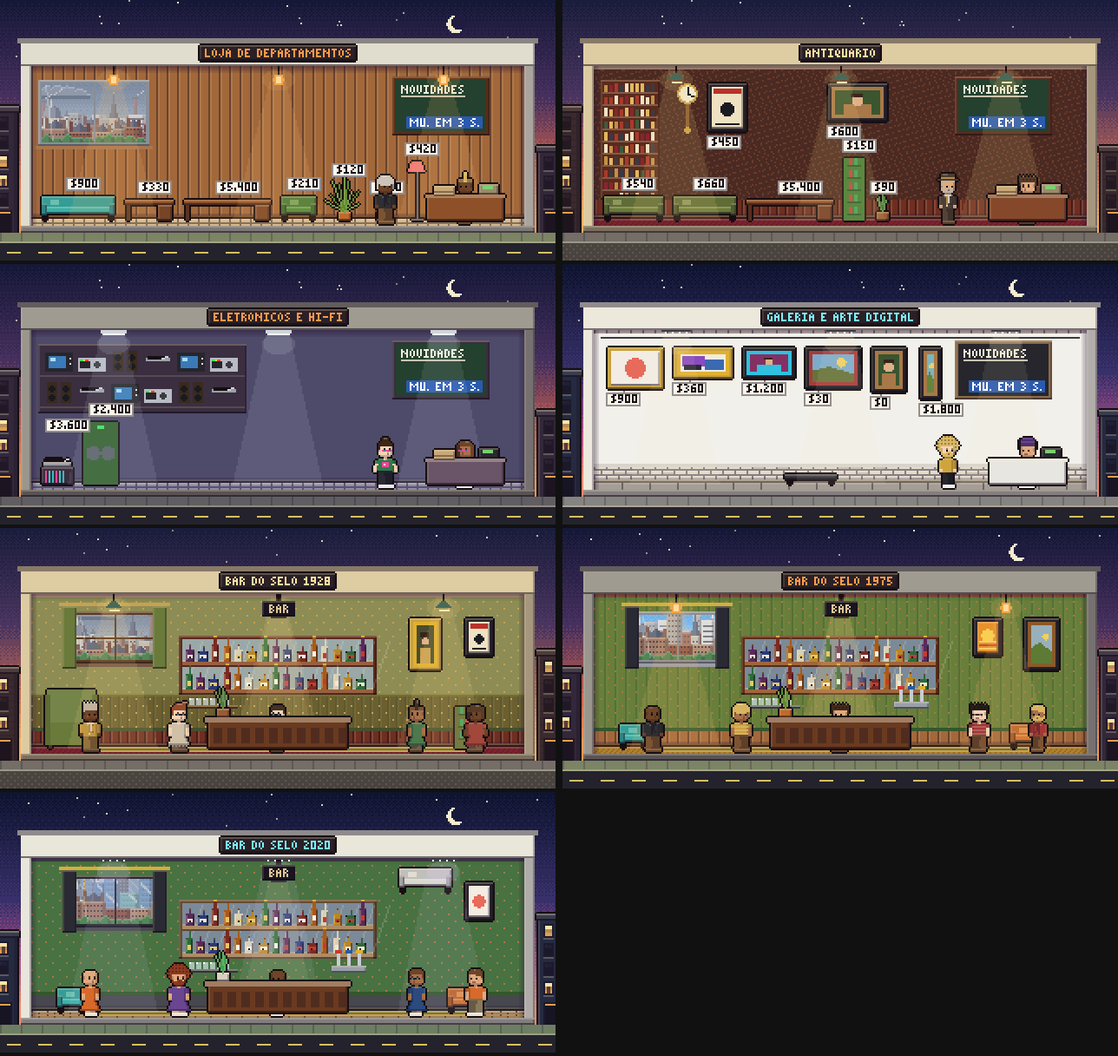
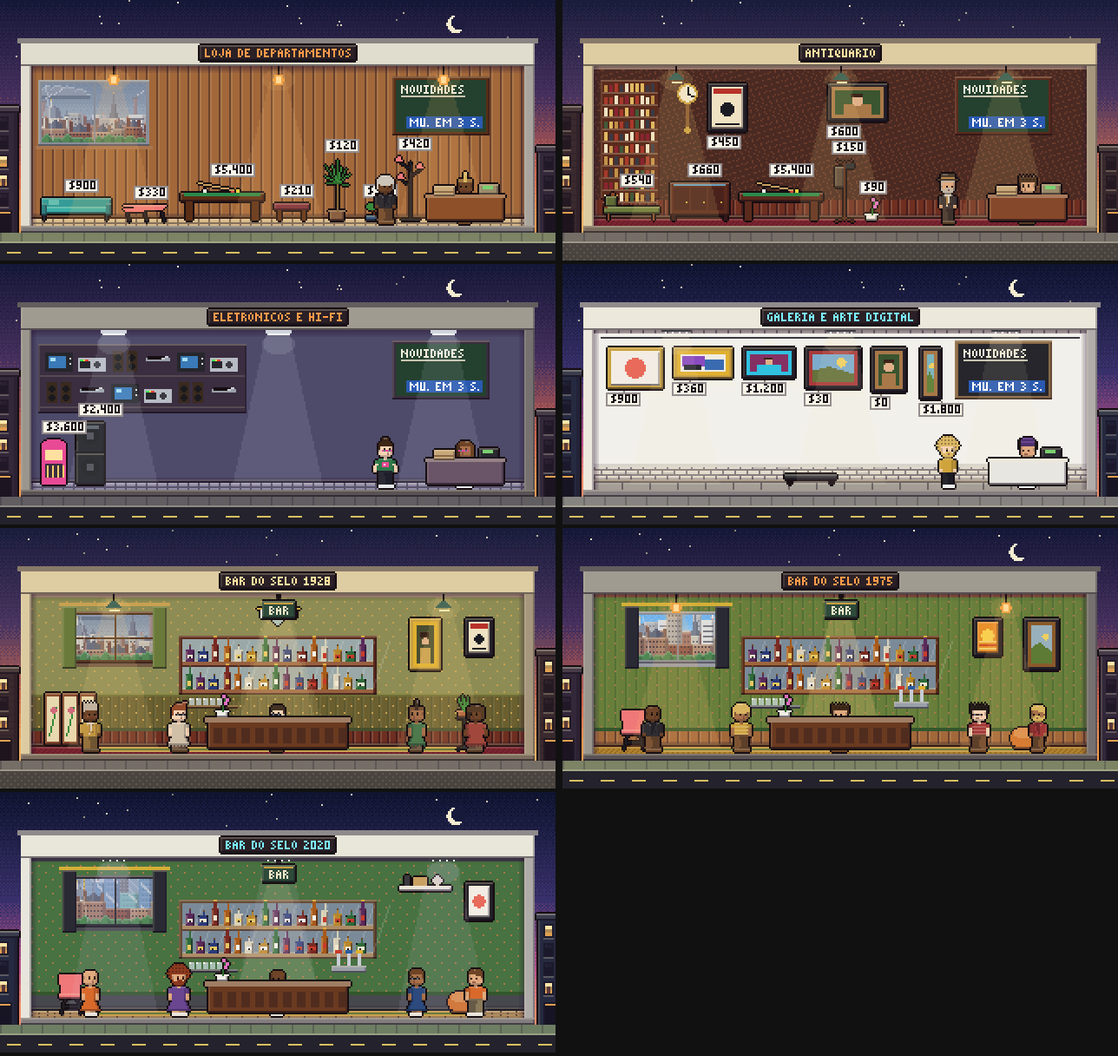
R31 DECO-L: desenho próprio de cada peça do catálogo (eletrônicos, móveis, coleção, luzes, plantas, letreiros)
Os 19 aparelhos de som e imagem, ~45 móveis, 22 peças de coleção, luminárias,
12 luzes de teto, 12 plantas e 12 estilos de letreiro desenhados no estilo da
mobília das cenas (até a arte final da DECO-A). Folha em docs/r31/shots.

Claude-Session: https://claude.ai/code/session_01FdhcX2hJbUoEDgwuGn3MBp

diff --git a/src/ui/r31/decol31art.ts b/src/ui/r31/decol31art.ts
@@ -1,0 +1,201 @@
+// R31 · DECO-L — desenho de CADA peça de decoração do catálogo da DECO-M que o prim27 não tem (móveis, coleção,
+// luminárias, luzes de teto e plantas), no estilo da mobília das cenas: vista lateral, chapado com luz de cima à
+// esquerda (`blk`), cores da época/estilo, contorno INK aplicado no fechamento do corte. Base embaixo à esquerda
+// (x, b = chão/apoio); luz de teto pendurada a partir de `top`. Devolve o tamanho desenhado (ou null = sem desenho).
+// A arte final por id e estilo é da DECO-A (pixel/deco31px); isto cobre o catálogo inteiro até lá.
+
+import type { DecoDef31 } from '../../data/deco31';
+import type { Cut27 } from '../pixel/interior27';
+import { C, INK, lv, withAlpha, type Col } from '../pixel/px';
+import { STY31 } from '../pixel/decol31px';
+import { prim27 } from '../ps/hqpx27';
+import { drawText, textWidth } from '../pixel/font';
+
+type G = Cut27['g'];
+type WH = { w: number; h: number };
+const blk = prim27.blk;
+const GOLD = C('#d8b040'), BRASS = C('#b88a3a'), CHROME = C('#c8ccd4'), STEEL = C('#7a8088'), BLACK = C('#1e1e24'), WHITE = C('#f0eee8'), GLASS = C('#a8d0e0');
+const LEAF = C('#3a8a3a'), LEAF2 = C('#2a6a2a'), POT = C('#b0603a');
+
+/** Sofá/poltrona com estilo (curvo, pés palito, modular, baixo…). */
+function seat(g: G, x: number, b: number, w: number, c: Col, o: { legs?: 'pin' | 'wood' | 'none' | 'chrome'; back?: number; round?: boolean } = {}): WH {
+  const p = g.p, bh = o.back ?? 7;
+  blk(p, x, b - 7 - bh, w, bh, lv(c, 2.6)); // encosto
+  if (o.round) { p.put(x, b - 7 - bh, 0); p.put(x + w - 1, b - 7 - bh, 0); }
+  blk(p, x + 2, b - 8, w - 4, 4, c); // assento
+  blk(p, x, b - 10, 3, 7, lv(c, 2)); blk(p, x + w - 3, b - 10, 3, 7, lv(c, 2)); // braços
+  p.rect(x + 4, b - 12, Math.min(6, w / 4), 3, lv(c, 4)); // almofada
+  const lc = o.legs === 'pin' ? C('#2a2a30') : o.legs === 'chrome' ? CHROME : C('#4e3420');
+  if (o.legs !== 'none') { p.rect(x + 1, b - 3, o.legs === 'pin' ? 1 : 2, 3, lc); p.rect(x + w - 3, b - 3, o.legs === 'pin' ? 1 : 2, 3, lc); }
+  else p.rect(x, b - 3, w, 3, lv(c, 1.4));
+  return { w, h: 7 + bh };
+}
+/** Móvel de guardar (aparador, cômoda) com portas/gavetas e pés. */
+function cabinet(g: G, x: number, b: number, w: number, h: number, c: Col, glass = false, inlay?: Col): WH {
+  const p = g.p;
+  blk(p, x, b - h, w, h - 3, c);
+  const n = Math.max(2, Math.round(w / 12));
+  for (let i = 0; i < n; i++) {
+    const dx = x + 2 + Math.round(i * (w - 4) / n), dw = Math.round((w - 4) / n) - 1;
+    p.rect(dx, b - h + 3, dw, h - 9, glass ? GLASS : lv(c, 2.2));
+    if (glass) p.line(dx + 1, b - 7, dx + dw - 2, b - h + 4, withAlpha(WHITE, 90));
+    p.put(dx + dw - 2, b - h + (h >> 1), GOLD);
+  }
+  if (inlay) p.hline(x + 2, x + w - 3, b - h + 1, inlay);
+  p.rect(x + 1, b - 3, 2, 3, lv(c, 1)); p.rect(x + w - 3, b - 3, 2, 3, lv(c, 1));
+  return { w, h };
+}
+function leaves(g: G, cx: number, y: number, n: number, len: number, spread = 0.32, c1 = LEAF, c2 = LEAF2): void {
+  for (let i = 0; i < n; i++) {
+    const a = -Math.PI / 2 + (i - (n - 1) / 2) * spread;
+    const l = len * (0.65 + ((i * 7) % 5) / 12);
+    g.p.line(cx, y, cx + Math.cos(a) * l * 0.6, y + Math.sin(a) * l, i % 2 ? c1 : c2);
+  }
+}
+const pot = (g: G, x: number, b: number, w: number, h: number, c: Col = POT): void => { blk(g.p, x, b - h, w, h, c); g.p.hline(x - 1, x + w, b - h, lv(c, 4)); };
+
+/** Desenha a peça pelo id; null = não tem desenho próprio aqui. */
+export function art31(g: G, d: DecoDef31, x: number, b: number): WH | null {
+  const p = g.p, a = C(STY31[d.style][0]), wd = g.pal.wood, wk = g.pal.woodDark;
+  switch (d.id) {
+    // ---------------------------------------------------------------- móveis
+    case 'd_chaise_nouveau': { blk(p, x, b - 8, 32, 4, a); p.line(x, b - 8, x + 4, b - 16, wd); p.line(x + 1, b - 8, x + 5, b - 16, wd); blk(p, x + 1, b - 14, 6, 6, lv(a, 2.6)); p.rect(x + 2, b - 4, 1, 4, wd); p.rect(x + 28, b - 4, 1, 4, wd); return { w: 32, h: 16 }; }
+    case 'd_armchair_nouveau': return seat(g, x, b, 18, C('#7a2a3a'), { legs: 'wood', back: 12, round: true });
+    case 'd_screen_nouveau': { for (let i = 0; i < 3; i++) { const px = x + i * 10; blk(p, px, b - 32, 9, 30, wd); p.rect(px + 1, b - 30, 7, 26, C('#e8d8b0')); p.line(px + 2, b - 8, px + 6, b - 24, LEAF); p.disc(px + 5, b - 22, 1.5, C('#d06a7a')); } return { w: 29, h: 32 }; }
+    case 'd_sideboard_nouveau': return cabinet(g, x, b, 34, 22, wk, false, C('#6aa0c0'));
+    case 'd_bookcase_nouveau': { blk(p, x, b - 38, 24, 38, C('#8a5a30')); prim27.shelf(g, x + 2, b - 36, 20, 32, 'books'); p.line(x + 3, b - 6, x + 20, b - 34, withAlpha(WHITE, 60)); return { w: 24, h: 38 }; }
+    case 'd_plantstand_nouveau': { p.vline(x + 5, b - 18, b - 1, BLACK); p.line(x + 5, b - 2, x + 1, b, BLACK); p.line(x + 5, b - 2, x + 9, b, BLACK); p.hline(x + 1, x + 9, b - 18, BLACK); pot(g, x + 2, b - 18, 7, 4); leaves(g, x + 5, b - 22, 6, 9); return { w: 11, h: 30 }; }
+    case 'd_sofa_deco': return seat(g, x, b, 42, C('#3a2a24'), { legs: 'chrome', back: 8, round: true });
+    case 'd_club_chair': return seat(g, x, b, 20, C('#6a3a20'), { legs: 'none', back: 9, round: true });
+    case 'd_bar_cart_deco': { p.hline(x, x + 18, b - 16, CHROME); p.hline(x, x + 18, b - 8, CHROME); p.vline(x + 1, b - 16, b - 3, CHROME); p.vline(x + 17, b - 16, b - 3, CHROME); p.disc(x + 2, b - 2, 1.5, BLACK); p.disc(x + 16, b - 2, 1.5, BLACK); for (let i = 0; i < 4; i++) p.rect(x + 3 + i * 4, b - 21, 2, 5, [C('#7a2a22'), C('#b8862a'), C('#2e6a3a'), GLASS][i]); p.rect(x + 5, b - 11, 3, 3, GLASS); p.rect(x + 11, b - 11, 3, 3, GLASS); return { w: 19, h: 21 }; }
+    case 'd_cabinet_deco': return cabinet(g, x, b, 36, 22, BLACK, false, GOLD);
+    case 'd_vanity_deco': { blk(p, x, b - 12, 24, 9, wd); p.rect(x + 2, b - 3, 2, 3, wk); p.rect(x + 20, b - 3, 2, 3, wk); p.disc(x + 12, b - 22, 8, GOLD); p.disc(x + 12, b - 22, 6.5, GLASS); p.line(x + 9, b - 18, x + 14, b - 26, withAlpha(WHITE, 120)); p.rect(x + 5, b - 14, 3, 2, C('#d06a7a')); return { w: 24, h: 30 }; }
+    case 'd_desk_deco': { prim27.desk(g, x, b, 38); blk(p, x + 26, b - 15, 10, 3, BLACK); p.rect(x + 4, b - 16, 6, 3, GOLD); return { w: 38, h: 16 }; }
+    case 'd_sofa_fifties': return seat(g, x, b, 40, C('#3ab0a8'), { legs: 'pin', back: 6 });
+    case 'd_eames_chair': { seat(g, x, b, 18, C('#2a2026'), { legs: 'chrome', back: 10, round: true }); blk(p, x + 20, b - 6, 8, 3, C('#2a2026')); p.rect(x + 23, b - 3, 1, 3, CHROME); return { w: 28, h: 17 }; }
+    case 'd_diner_booth': { blk(p, x, b - 20, 4, 20, C('#c83030')); blk(p, x + 32, b - 20, 4, 20, C('#c83030')); blk(p, x + 4, b - 8, 28, 3, CHROME); p.rect(x + 17, b - 5, 2, 5, CHROME); p.rect(x + 8, b - 11, 4, 3, C('#f0d060')); p.rect(x + 22, b - 12, 3, 4, C('#c83030')); return { w: 36, h: 20 }; }
+    case 'd_boomerang_table': { p.poly([[x, b - 7], [x + 27, b - 9], [x + 24, b - 6], [x + 3, b - 5]], C('#f07878')); p.hline(x + 1, x + 25, b - 9, lv(C('#f07878'), 4)); for (const lx of [x + 3, x + 13, x + 23]) p.line(lx, b - 5, lx + 1, b, BLACK); return { w: 28, h: 9 }; }
+    case 'd_credenza_fifties': return cabinet(g, x, b, 36, 18, C('#a0602a'));
+    case 'd_shell_chair': { p.poly([[x + 1, b - 22], [x + 14, b - 22], [x + 13, b - 10], [x + 2, b - 10]], C('#f07878')); blk(p, x + 1, b - 11, 14, 3, C('#f07878')); p.line(x + 4, b - 8, x + 2, b, BLACK); p.line(x + 11, b - 8, x + 13, b, BLACK); p.line(x + 3, b - 4, x + 12, b - 4, BLACK); return { w: 16, h: 22 }; }
+    case 'd_bean_bag': { p.ellipse(x + 10, b - 6, 10, 6, C('#d0702a')); p.ellipse(x + 8, b - 9, 6, 3, lv(C('#d0702a'), 4)); p.hline(x + 2, x + 18, b - 1, lv(C('#d0702a'), 1.2)); return { w: 20, h: 12 }; }
+    case 'd_conversation_pit': { blk(p, x, b - 10, 52, 10, C('#b8862a')); blk(p, x + 4, b - 6, 44, 6, lv(C('#d0702a'), 2.6)); for (let i = 0; i < 4; i++) p.rect(x + 7 + i * 11, b - 9, 7, 3, C('#e0a040')); return { w: 52, h: 10 }; }
+    case 'd_egg_chair': { p.ellipse(x + 11, b - 18, 10, 12, C('#c83030')); p.ellipse(x + 13, b - 17, 6, 8, lv(C('#c83030'), 1.6)); p.rect(x + 10, b - 6, 2, 5, CHROME); p.hline(x + 5, x + 17, b - 1, CHROME); return { w: 22, h: 30 }; }
+    case 'd_waterbed': { blk(p, x, b - 8, 44, 8, wd); p.rect(x + 2, b - 11, 40, 4, C('#3a7ab8')); for (let i = 0; i < 40; i += 6) p.hline(x + 3 + i, x + 5 + i, b - 10, C('#7ab0e0')); p.rect(x + 3, b - 13, 8, 2, WHITE); return { w: 44, h: 13 }; }
+    case 'd_macrame_chair': { p.vline(x + 10, b - 34, b - 22, wk); p.ellipse(x + 10, b - 13, 9, 9, C('#e8d8b0')); for (let i = -6; i <= 6; i += 3) p.line(x + 10, b - 22, x + 10 + i, b - 5, C('#c8a878')); blk(p, x + 4, b - 9, 12, 3, C('#d0702a')); return { w: 20, h: 34 }; }
+    case 'd_rattan_set': { seat(g, x, b, 22, C('#c8a060'), { legs: 'wood', back: 8, round: true }); for (let i = 0; i < 20; i += 3) p.vline(x + 1 + i, b - 15, b - 9, C('#a07840')); p.ellipse(x + 32, b - 8, 7, 2, GLASS); p.rect(x + 31, b - 6, 2, 6, C('#a07840')); return { w: 40, h: 15 }; }
+    case 'd_sofa_eighties': { for (let i = 0; i < 3; i++) seat(g, x + i * 16, b, 16, C('#7a7a84'), { legs: 'none', back: 6 }); return { w: 48, h: 13 }; }
+    case 'd_glass_desk': { p.rect(x, b - 15, 36, 2, withAlpha(GLASS, 200)); p.hline(x, x + 35, b - 15, WHITE); p.rect(x + 2, b - 13, 2, 13, CHROME); p.rect(x + 32, b - 13, 2, 13, CHROME); p.rect(x + 22, b - 22, 9, 7, BLACK); p.rect(x + 23, b - 21, 7, 5, C('#3a7ab8')); return { w: 36, h: 22 }; }
+    case 'd_memphis_shelf': { blk(p, x, b - 36, 28, 4, C('#e040a0')); blk(p, x + 4, b - 32, 4, 32, BLACK); blk(p, x + 20, b - 32, 4, 32, C('#30c0e0')); blk(p, x + 8, b - 20, 12, 3, C('#f0d040')); for (let i = 0; i < 4; i++) p.rect(x + 9 + i * 3, b - 26, 2, 6, [C('#e04040'), WHITE, C('#30c0e0'), BLACK][i]); p.disc(x + 14, b - 6, 3, C('#f0d040')); return { w: 28, h: 36 }; }
+    case 'd_arcade_cab': { blk(p, x, b - 36, 18, 36, C('#2a2436')); p.rect(x + 2, b - 34, 14, 4, C('#ff48c8')); p.rect(x + 3, b - 28, 12, 9, C('#40e0ff')); p.rect(x + 4, b - 27, 4, 3, WHITE); blk(p, x - 1, b - 18, 20, 3, C('#3a2a5a')); p.put(x + 5, b - 20, C('#ff4040')); p.vline(x + 5, b - 19, b - 18, BLACK); p.disc(x + 11, b - 17, 1, C('#f0e040')); p.rect(x + 7, b - 10, 4, 2, C('#f0d040')); return { w: 18, h: 36 }; }
+    case 'd_futon': { blk(p, x, b - 5, 40, 5, C('#c8a060')); blk(p, x + 1, b - 9, 38, 4, C('#3a4a6a')); blk(p, x + 1, b - 14, 38, 5, lv(C('#3a4a6a'), 2.6)); return { w: 40, h: 14 }; }
+    case 'd_leather_sofa90': return seat(g, x, b, 44, BLACK, { legs: 'chrome', back: 8 });
+    case 'd_cd_tower': { p.vline(x + 4, b - 34, b - 1, STEEL); p.hline(x + 1, x + 8, b - 1, STEEL); for (let y = b - 33; y < b - 2; y += 2) p.hline(x + 1, x + 7, y, [C('#e04040'), C('#3a7ab8'), WHITE, C('#f0d040'), BLACK][(y >> 1) % 5]); return { w: 9, h: 34 }; }
+    case 'd_pool_table': { blk(p, x, b - 16, 48, 5, wk); p.rect(x + 2, b - 16, 44, 2, C('#2a8a4a')); p.disc(x + 14, b - 17, 1.2, WHITE); p.disc(x + 30, b - 17, 1.2, C('#e04040')); p.disc(x + 33, b - 17, 1.2, C('#f0d040')); p.rect(x + 3, b - 11, 4, 11, wk); p.rect(x + 41, b - 11, 4, 11, wk); p.line(x + 10, b - 22, x + 30, b - 18, C('#c8a060')); return { w: 48, h: 22 }; }
+    case 'd_lowsofa_min': return seat(g, x, b, 44, C('#d8d0c0'), { legs: 'wood', back: 4 });
+    case 'd_floating_shelf': { blk(p, x, b - 4, 30, 3, C('#e8e4dc')); p.rect(x + 3, b - 10, 3, 6, C('#3a3a3e')); p.rect(x + 8, b - 9, 8, 5, C('#c8a060')); p.disc(x + 22, b - 7, 2.5, C('#d8d0c0')); return { w: 30, h: 10 }; }
+    case 'd_standing_desk': { blk(p, x, b - 22, 34, 3, C('#e8e4dc')); p.rect(x + 4, b - 19, 2, 19, STEEL); p.rect(x + 28, b - 19, 2, 19, STEEL); p.hline(x + 1, x + 9, b - 1, STEEL); p.hline(x + 25, x + 33, b - 1, STEEL); p.rect(x + 12, b - 30, 12, 8, BLACK); p.rect(x + 13, b - 29, 10, 6, C('#3a7ab8')); return { w: 34, h: 30 }; }
+    case 'd_bench_min': { blk(p, x, b - 9, 36, 3, C('#c8a060')); p.rect(x + 3, b - 6, 3, 6, C('#a07840')); p.rect(x + 30, b - 6, 3, 6, C('#a07840')); return { w: 36, h: 9 }; }
+    case 'd_smart_sofa': { seat(g, x, b, 46, C('#5a6a7a'), { legs: 'none', back: 6 }); p.hline(x + 3, x + 42, b - 3, C('#40c0ff')); p.rect(x + 1, b - 12, 2, 2, C('#40c0ff')); return { w: 46, h: 13 }; }
+    case 'd_massage_chair': { blk(p, x + 2, b - 28, 12, 18, C('#3a3a42')); blk(p, x, b - 12, 22, 6, C('#3a3a42')); blk(p, x + 16, b - 10, 6, 10, lv(C('#3a3a42'), 2)); p.rect(x + 4, b - 26, 8, 2, C('#40c0ff')); p.rect(x + 1, b - 6, 14, 6, lv(C('#3a3a42'), 1.4)); return { w: 22, h: 28 }; }
+    case 'd_pod_bed': { p.ellipse(x + 23, b - 8, 23, 8, WHITE); p.ellipse(x + 23, b - 9, 20, 4, C('#d0e8f0')); p.rect(x + 4, b - 11, 8, 3, C('#f8f8f8')); p.hline(x + 6, x + 40, b - 2, C('#40c0ff')); return { w: 46, h: 16 }; }
+    case 'd_bar_counter': { blk(p, x, b - 24, 56, 4, wk); blk(p, x + 2, b - 20, 52, 20, wd); for (let i = 0; i < 52; i += 9) p.rect(x + 4 + i, b - 17, 6, 13, lv(wd, 2)); p.hline(x + 2, x + 53, b - 2, BRASS); return { w: 56, h: 24 }; }
+    case 'd_merch_rack': { p.hline(x, x + 28, b - 28, CHROME); p.vline(x + 1, b - 28, b - 1, CHROME); p.vline(x + 27, b - 28, b - 1, CHROME); for (let i = 0; i < 6; i++) { const tx = x + 3 + i * 4; p.rect(tx, b - 26, 4, 10, [C('#1e1e24'), C('#c83030'), WHITE, C('#3a6ab0'), C('#f0d040'), C('#1e1e24')][i]); p.put(tx + 1, b - 22, i % 2 ? BLACK : WHITE); } return { w: 28, h: 28 }; }
+    case 'd_record_bin': { blk(p, x, b - 12, 28, 12, C('#8a6040')); for (let i = 0; i < 9; i++) p.rect(x + 2 + i * 3, b - 16 + (i % 3), 2, 5, [C('#e04040'), C('#f0d040'), C('#3a7ab8'), WHITE, C('#40a060')][i % 5]); p.rect(x + 9, b - 8, 10, 4, C('#f0e8d0')); return { w: 28, h: 16 }; }
+    case 'd_piano_bench': { blk(p, x, b - 10, 20, 4, C('#7a2a3a')); p.rect(x + 2, b - 6, 2, 6, wk); p.rect(x + 16, b - 6, 2, 6, wk); return { w: 20, h: 10 }; }
+    case 'd_coat_stand': { p.vline(x + 6, b - 34, b - 1, wk); p.line(x + 6, b - 2, x + 1, b, wk); p.line(x + 6, b - 2, x + 11, b, wk); p.line(x + 6, b - 32, x + 2, b - 35, wk); p.line(x + 6, b - 32, x + 10, b - 35, wk); blk(p, x + 1, b - 31, 5, 12, C('#5a4a3a')); p.rect(x + 7, b - 33, 5, 3, C('#2a2a30')); return { w: 12, h: 35 }; }
+    // ---------------------------------------------------------------- coleção e enfeites
+    case 'c_bust': { blk(p, x + 2, b - 4, 8, 4, WHITE); p.rect(x + 3, b - 8, 6, 4, C('#e0dcd0')); p.disc(x + 6, b - 11, 3, C('#e8e4d8')); p.rect(x + 3, b - 14, 6, 2, C('#c8c4b8')); return { w: 12, h: 14 }; }
+    case 'c_globe': { p.vline(x + 6, b - 4, b - 1, BRASS); p.hline(x + 3, x + 9, b - 1, wk); p.disc(x + 6, b - 9, 5, C('#3a7ab8')); p.rect(x + 3, b - 11, 3, 2, LEAF); p.rect(x + 7, b - 8, 3, 3, LEAF); p.ring(x + 6, b - 9, 5.5, BRASS); return { w: 12, h: 14 }; }
+    case 'c_grandfather_clock': { blk(p, x, b - 40, 14, 40, wk); p.disc(x + 7, b - 33, 5, C('#f0e8d0')); p.line(x + 7, b - 33, x + 7, b - 36, INK); p.line(x + 7, b - 33, x + 9, b - 32, INK); p.rect(x + 3, b - 26, 8, 20, lv(wk, 1.4)); p.vline(x + 7, b - 26, b - 12, BRASS); p.disc(x + 7, b - 11, 2, GOLD); p.rect(x - 1, b - 41, 16, 2, lv(wk, 3)); return { w: 14, h: 41 }; }
+    case 'c_metronome': { p.poly([[x, b], [x + 6, b], [x + 4, b - 10], [x + 2, b - 10]], wd); p.line(x + 3, b - 2, x + 5, b - 10, CHROME); return { w: 6, h: 10 }; }
+    case 'c_deco_statue': { blk(p, x + 1, b - 3, 7, 3, BLACK); p.line(x + 4, b - 3, x + 4, b - 10, BRASS); p.line(x + 4, b - 10, x + 1, b - 14, BRASS); p.line(x + 4, b - 10, x + 7, b - 15, BRASS); p.disc(x + 4, b - 12, 1.2, C('#f0e8d8')); p.line(x + 4, b - 6, x + 6, b - 3, BRASS); return { w: 8, h: 15 }; }
+    case 'c_cocktail_set': { blk(p, x, b - 2, 14, 2, CHROME); p.rect(x + 2, b - 10, 4, 8, CHROME); p.rect(x + 3, b - 12, 2, 2, CHROME); p.poly([[x + 8, b - 8], [x + 13, b - 8], [x + 11, b - 5], [x + 10, b - 5]], GLASS); p.vline(x + 10, b - 5, b - 3, GLASS); p.put(x + 10, b - 7, C('#d03040')); return { w: 14, h: 12 }; }
+    case 'c_aquarium': { blk(p, x, b - 5, 26, 5, wk); p.rect(x + 1, b - 18, 24, 13, withAlpha(C('#4ab0d0'), 210)); p.hline(x + 1, x + 24, b - 18, CHROME); p.rect(x + 1, b - 7, 24, 2, C('#e0c890')); p.line(x + 4, b - 7, x + 5, b - 14, LEAF); p.line(x + 20, b - 7, x + 19, b - 13, LEAF); p.rect(x + 9, b - 13, 3, 2, C('#f08030')); p.put(x + 12, b - 12, C('#f08030')); p.rect(x + 15, b - 10, 2, 1, C('#f0d040')); p.put(x + 8, b - 16, WHITE); return { w: 26, h: 18 }; }
+    case 'c_jukebox_mini': { p.rect(x, b - 9, 6, 9, C('#c83030')); p.ellipse(x + 3, b - 9, 3, 2, C('#c83030')); p.rect(x + 1, b - 7, 4, 3, C('#ffe0a0')); return { w: 6, h: 11 }; }
+    case 'c_disco_ball': { p.vline(x + 6, b - 18, b - 13, STEEL); p.disc(x + 6, b - 7, 6, CHROME); for (let yy = -5; yy <= 5; yy += 2) for (let xx = -5; xx <= 5; xx += 2) if (xx * xx + yy * yy < 26) p.put(x + 6 + xx, b - 7 + yy, (xx + yy) % 4 ? C('#9aa0aa') : WHITE); return { w: 12, h: 18 }; }
+    case 'c_rubik': { const cs = [C('#e04040'), C('#40a060'), C('#3a7ab8'), C('#f0d040'), C('#f08030'), WHITE]; for (let i = 0; i < 9; i++) p.rect(x + (i % 3) * 2, b - 6 + Math.floor(i / 3) * 2, 2, 2, cs[(i * 2) % 6]); return { w: 6, h: 6 }; }
+    case 'c_cassette_wall': { blk(p, x, b - 20, 30, 20, BLACK); for (let r = 0; r < 4; r++) for (let i = 0; i < 4; i++) { const cx = x + 2 + i * 7, cy = b - 18 + r * 5; p.rect(cx, cy, 6, 4, [C('#e04040'), C('#f0d040'), C('#3a7ab8'), WHITE][(i + r) % 4]); p.rect(cx + 1, cy + 1, 4, 1, BLACK); } return { w: 30, h: 20 }; }
+    case 'c_gameconsole': { blk(p, x, b - 4, 12, 4, C('#2a2a30')); p.rect(x + 1, b - 3, 3, 1, C('#40e060')); p.rect(x + 3, b - 7, 6, 3, C('#3a3a42')); p.put(x + 7, b - 6, C('#e04040')); return { w: 12, h: 7 }; }
+    case 'c_action_figures': { blk(p, x, b - 2, 28, 2, C('#e8e4dc')); for (let i = 0; i < 6; i++) { const fx = x + 2 + i * 4, c = [C('#e04040'), C('#3a7ab8'), C('#40a060'), C('#f0d040'), C('#8a4ac0'), C('#f08030')][i]; p.rect(fx, b - 7, 2, 5, c); p.put(fx, b - 8, C('#e0b088')); p.put(fx + 1, b - 8, C('#e0b088')); } return { w: 28, h: 8 }; }
+    case 'c_trophy_case': { blk(p, x, b - 38, 26, 38, wk); p.rect(x + 2, b - 36, 22, 32, withAlpha(GLASS, 120)); for (let r = 0; r < 3; r++) { p.hline(x + 2, x + 23, b - 26 + r * 10, lv(wk, 3)); for (let i = 0; i < 3; i++) { const tx = x + 4 + i * 7, ty = b - 26 + r * 10; p.rect(tx + 1, ty - 2, 2, 2, GOLD); p.rect(tx, ty - 6, 4, 4, GOLD); p.put(tx - 1, ty - 5, GOLD); p.put(tx + 4, ty - 5, GOLD); } } return { w: 26, h: 38 }; }
+    case 'c_drumhead': { p.disc(x + 9, b - 9, 9, WHITE); p.ring(x + 9, b - 9, 9, CHROME); p.line(x + 4, b - 10, x + 13, b - 7, C('#2a2a7a')); p.line(x + 5, b - 13, x + 11, b - 12, C('#c83030')); return { w: 18, h: 18 }; }
+    case 'c_setlist_frame': { blk(p, x, b - 16, 12, 16, BLACK); p.rect(x + 2, b - 14, 8, 12, WHITE); for (let i = 0; i < 5; i++) p.hline(x + 3, x + 6 + (i % 3), b - 12 + i * 2, INK); return { w: 12, h: 16 }; }
+    case 'c_ceramic_min': { p.ellipse(x + 4, b - 6, 4, 6, C('#d8d4cc')); p.rect(x + 3, b - 14, 3, 3, C('#d8d4cc')); p.vline(x + 2, b - 10, b - 3, WHITE); return { w: 8, h: 14 }; }
+    case 'c_robot_vac': { p.ellipse(x + 5, b - 2, 5, 2, C('#2a2a30')); p.put(x + 5, b - 3, C('#40c0ff')); return { w: 10, h: 4 }; }
+    case 'c_drone_cam': { blk(p, x, b - 2, 10, 2, C('#e8e4dc')); p.rect(x + 3, b - 4, 4, 2, C('#3a3a42')); p.hline(x, x + 9, b - 5, STEEL); p.put(x + 5, b - 3, C('#40c0ff')); return { w: 10, h: 5 }; }
+    case 'c_fireplace': { blk(p, x, b - 32, 34, 32, C('#d8ccb8')); blk(p, x - 2, b - 32, 38, 3, lv(C('#d8ccb8'), 2.4)); p.rect(x + 7, b - 22, 20, 22, BLACK); p.poly([[x + 10, b - 2], [x + 14, b - 12], [x + 17, b - 6], [x + 20, b - 15], [x + 24, b - 2]], C('#f08030')); p.poly([[x + 13, b - 2], [x + 17, b - 9], [x + 21, b - 2]], C('#f8d050')); p.rect(x + 9, b - 3, 16, 2, C('#4e3420')); return { w: 34, h: 32 }; }
+    case 'c_piano_grand': { blk(p, x, b - 20, 44, 6, BLACK); p.poly([[x + 6, b - 20], [x + 38, b - 30], [x + 40, b - 20]], BLACK); p.rect(x + 2, b - 16, 12, 2, WHITE); for (let i = 0; i < 6; i++) p.put(x + 3 + i * 2, b - 16, INK); for (const lx of [x + 3, x + 22, x + 40]) p.rect(lx, b - 14, 2, 14, BLACK); p.line(x + 8, b - 21, x + 36, b - 29, lv(BLACK, 4)); return { w: 44, h: 30 }; }
+    case 'c_candles': { p.hline(x + 1, x + 9, b - 1, CHROME); p.vline(x + 5, b - 9, b - 1, CHROME); p.line(x + 5, b - 7, x + 1, b - 9, CHROME); p.line(x + 5, b - 7, x + 9, b - 9, CHROME); for (const cx of [x + 1, x + 5, x + 9]) { p.rect(cx, b - (cx === x + 5 ? 13 : 12), 1, 3, WHITE); p.put(cx, b - (cx === x + 5 ? 14 : 13), C('#f8c040')); } return { w: 10, h: 14 }; }
+    // ---------------------------------------------------------------- luminárias
+    case 'l_tiffany': { p.vline(x + 6, b - 8, b - 1, BRASS); p.hline(x + 3, x + 9, b - 1, BRASS); p.poly([[x, b - 8], [x + 12, b - 8], [x + 9, b - 15], [x + 3, b - 15]], C('#3a8a5a')); p.rect(x + 3, b - 12, 2, 2, C('#d04040')); p.rect(x + 7, b - 11, 2, 2, C('#f0c040')); return { w: 12, h: 15 }; }
+    case 'l_gas_sconce': { p.rect(x + 2, b - 4, 4, 4, BRASS); p.line(x + 4, b - 4, x + 4, b - 8, BRASS); p.poly([[x + 1, b - 8], [x + 7, b - 8], [x + 6, b - 12], [x + 2, b - 12]], withAlpha(C('#fff0c0'), 210)); return { w: 8, h: 12 }; }
+    case 'l_deco_floor': { p.vline(x + 6, b - 30, b - 1, BLACK); p.hline(x + 2, x + 10, b - 1, BLACK); for (let i = 0; i < 3; i++) p.rect(x + 2 + i, b - 36 + i * 2, 8 - i * 2, 2, i % 2 ? GOLD : C('#f0e8d0')); return { w: 12, h: 36 }; }
+    case 'l_banker': { p.vline(x + 6, b - 6, b - 1, BRASS); p.hline(x + 2, x + 10, b - 1, BRASS); p.ellipse(x + 6, b - 8, 6, 2, C('#2a7a4a')); p.hline(x + 1, x + 11, b - 7, C('#fff0b0')); return { w: 12, h: 10 }; }
+    case 'l_arc': { p.line(x + 2, b - 1, x + 2, b - 30, CHROME); p.line(x + 2, b - 30, x + 14, b - 38, CHROME); p.line(x + 14, b - 38, x + 26, b - 30, CHROME); blk(p, x, b - 2, 6, 2, WHITE); p.disc(x + 26, b - 28, 3, CHROME); p.hline(x + 24, x + 28, b - 25, C('#fff0b0')); return { w: 30, h: 38 }; }
+    case 'l_atomic': { p.vline(x + 8, b - 34, b - 1, BLACK); p.hline(x + 3, x + 13, b - 1, BLACK); for (const [dx, dy] of [[-6, -34], [6, -30], [-5, -24]]) { p.line(x + 8, b + dy + 4, x + 8 + dx, b + dy, BLACK); p.poly([[x + 8 + dx - 2, b + dy], [x + 8 + dx + 2, b + dy], [x + 8 + dx + 1, b + dy - 3], [x + 8 + dx - 1, b + dy - 3]], C('#f07878')); } return { w: 16, h: 37 }; }
+    case 'l_lava': { p.poly([[x, b], [x + 6, b], [x + 4, b - 3], [x + 2, b - 3]], CHROME); p.rect(x + 2, b - 11, 3, 8, C('#e04080')); p.disc(x + 3, b - 8, 1, C('#f0a020')); p.disc(x + 3, b - 5, 1, C('#f0a020')); p.rect(x + 2, b - 13, 3, 2, CHROME); return { w: 6, h: 13 }; }
+    case 'l_desk_tensor': { blk(p, x, b - 2, 6, 2, BLACK); p.line(x + 3, b - 2, x + 7, b - 10, BLACK); p.line(x + 7, b - 10, x + 11, b - 7, BLACK); p.poly([[x + 9, b - 8], [x + 13, b - 6], [x + 12, b - 4], [x + 9, b - 5]], C('#e04040')); return { w: 13, h: 10 }; }
+    case 'l_led_strip': { blk(p, x, b - 3, 40, 3, C('#2a2a30')); for (let i = 0; i < 40; i += 2) p.put(x + i, b - 2, [C('#ff40c0'), C('#40c0ff'), C('#40e060'), C('#f0e040')][(i >> 1) % 4]); return { w: 40, h: 3 }; }
+    case 'l_mushroom': { p.rect(x + 5, b - 5, 2, 5, WHITE); p.ellipse(x + 6, b - 7, 6, 4, C('#f0a020')); p.hline(x + 1, x + 11, b - 5, lv(C('#f0a020'), 1.6)); return { w: 12, h: 11 }; }
+    case 'l_neon_sign': { blk(p, x, b - 10, 24, 10, BLACK); p.rect(x + 2, b - 7, 20, 1, C('#ff4040')); p.rect(x + 2, b - 4, 20, 1, C('#ff4040')); for (let i = 3; i < 21; i += 4) p.vline(x + i, b - 7, b - 4, C('#ff8080')); return { w: 24, h: 10 }; }
+    case 'l_halogen': { p.vline(x + 5, b - 36, b - 1, STEEL); p.hline(x + 1, x + 9, b - 1, STEEL); p.poly([[x, b - 40], [x + 10, b - 40], [x + 7, b - 36], [x + 3, b - 36]], C('#3a3a42')); p.hline(x + 1, x + 9, b - 40, C('#fff8d0')); return { w: 10, h: 40 }; }
+    case 'l_paper_lantern': { p.vline(x + 7, b - 8, b - 1, C('#4e3420')); p.hline(x + 3, x + 11, b - 1, C('#4e3420')); p.ellipse(x + 7, b - 18, 6, 10, C('#f4ecd8')); for (let y = b - 26; y < b - 10; y += 3) p.hline(x + 2, x + 12, y, C('#d8ccb0')); return { w: 14, h: 28 }; }
+    case 'l_smart_bulb': { p.ellipse(x + 5, b - 6, 5, 6, C('#40c0ff')); p.ellipse(x + 4, b - 8, 2, 2, WHITE); blk(p, x + 2, b - 2, 6, 2, C('#3a3a42')); p.ellipse(x + 5, b - 6, 7, 8, withAlpha(C('#40c0ff'), 50)); return { w: 10, h: 14 }; }
+    // ---------------------------------------------------------------- plantas
+    case 'p_bonsai': { blk(p, x + 1, b - 3, 10, 3, C('#3a5a7a')); p.line(x + 6, b - 3, x + 4, b - 7, wk); p.line(x + 4, b - 7, x + 7, b - 9, wk); p.ellipse(x + 4, b - 8, 3, 1.5, LEAF); p.ellipse(x + 8, b - 9, 3, 1.5, LEAF2); return { w: 12, h: 10 }; }
+    case 'p_cactus': { pot(g, x + 1, b, 6, 4); p.rect(x + 3, b - 12, 2, 8, LEAF); p.rect(x + 1, b - 9, 2, 1, LEAF); p.rect(x + 1, b - 11, 1, 2, LEAF); p.rect(x + 5, b - 8, 2, 1, LEAF); p.rect(x + 6, b - 10, 1, 2, LEAF); return { w: 8, h: 12 }; }
+    case 'p_fern': { p.rect(x + 6, b - 10, 4, 10, WHITE); pot(g, x + 4, b - 10, 8, 4); leaves(g, x + 8, b - 14, 9, 12, 0.36); return { w: 16, h: 26 }; }
+    case 'p_ficus': { pot(g, x + 5, b, 8, 6); p.vline(x + 9, b - 20, b - 6, wk); for (let i = 0; i < 9; i++) p.disc(x + 9 + Math.cos(i * 1.7) * 6, b - 22 - Math.sin(i * 2.3) * 8, 2.4, i % 2 ? LEAF : LEAF2); return { w: 18, h: 32 }; }
+    case 'p_green_wall': { blk(p, x, b - 30, 36, 30, C('#4e3420')); for (let i = 0; i < 40; i++) p.disc(x + 3 + (i * 7) % 31, b - 27 + (i * 11) % 25, 2.2, [LEAF, LEAF2, C('#5aa04a')][i % 3]); return { w: 36, h: 30 }; }
+    case 'p_hydro': { blk(p, x, b - 28, 20, 28, CHROME); for (let r = 0; r < 3; r++) { p.rect(x + 2, b - 26 + r * 9, 16, 2, C('#ff60c0')); for (let i = 0; i < 4; i++) p.disc(x + 4 + i * 4, b - 20 + r * 9, 1.6, LEAF); } return { w: 20, h: 28 }; }
+    case 'p_monstera': { pot(g, x + 7, b, 8, 5); for (let i = 0; i < 6; i++) { const lx = x + 11 + Math.cos(-Math.PI / 2 + (i - 2.5) * 0.5) * 9, ly = b - 14 - Math.sin(Math.PI / 2 + (i - 2.5) * 0.5) * 12; p.line(x + 11, b - 5, lx, ly, LEAF2); p.ellipse(lx, ly, 4, 3, i % 2 ? LEAF : LEAF2); p.put(lx, ly, C('#d8c8a8')); } return { w: 22, h: 30 }; }
+    case 'p_orchid': { pot(g, x + 1, b, 6, 4, WHITE); p.line(x + 4, b - 4, x + 5, b - 12, LEAF2); for (const [dx, dy] of [[5, -12], [7, -10], [6, -8]]) p.disc(x + dx, b + dy, 1.4, C('#e070c0')); return { w: 8, h: 12 }; }
+    case 'p_palm': { pot(g, x + 6, b, 8, 6, C('#8a6040')); p.line(x + 10, b - 6, x + 10, b - 22, C('#8a6a3a')); leaves(g, x + 10, b - 22, 9, 14, 0.42); return { w: 20, h: 36 }; }
+    case 'p_rubber': { pot(g, x + 5, b, 8, 6); p.vline(x + 9, b - 30, b - 6, wk); for (let i = 0; i < 7; i++) p.ellipse(x + 9 + (i % 2 ? 4 : -4), b - 10 - i * 3.5, 3.5, 2, i % 2 ? LEAF2 : C('#1e4a1e')); return { w: 18, h: 32 }; }
+    case 'p_spider': { p.vline(x + 7, b - 20, b - 12, STEEL); pot(g, x + 3, b - 6, 8, 6, WHITE); for (let i = 0; i < 7; i++) p.line(x + 7, b - 8, x + 1 + i * 2, b - (i % 2 ? 1 : 3), i % 2 ? LEAF : C('#8ac060')); return { w: 14, h: 20 }; }
+    case 'p_succulents': { blk(p, x, b - 3, 14, 3, C('#d8d4cc')); for (const cx of [x + 3, x + 7, x + 11]) { p.disc(cx, b - 5, 2, C('#6aa080')); p.put(cx, b - 6, C('#a0d0b0')); } return { w: 14, h: 7 }; }
+    default: return null;
+  }
+}
+
+/** Luz de teto pendurada a partir de `top` (centro em cx). */
+export function light31(g: G, d: DecoDef31, cx: number, top: number): WH {
+  const p = g.p, glow = withAlpha(C('#ffe8a0'), 26);
+  const cone = (y: number, w0: number, reach: number) => p.poly([[cx - w0, y], [cx + w0, y], [cx + reach, y + 60], [cx - reach, y + 60]], glow);
+  switch (d.id) {
+    case 't_crystal': { p.vline(cx, top, top + 4, BRASS); p.poly([[cx - 12, top + 8], [cx + 12, top + 8], [cx, top + 18]], withAlpha(GLASS, 200)); for (let i = -10; i <= 10; i += 4) { p.vline(cx + i, top + 8, top + 12, WHITE); p.put(cx + i, top + 13, C('#fff8d0')); } p.hline(cx - 12, cx + 12, top + 8, GOLD); cone(top + 14, 8, 26); return { w: 26, h: 18 }; }
+    case 't_deco_dish': { p.vline(cx, top, top + 4, BRASS); p.ellipse(cx, top + 6, 10, 2.5, C('#f0ece0')); p.hline(cx - 9, cx + 9, top + 8, BRASS); cone(top + 8, 8, 22); return { w: 20, h: 9 }; }
+    case 't_fluorescent': { blk(p, cx - 15, top, 30, 3, C('#d0d4dc')); p.hline(cx - 13, cx + 13, top + 3, C('#f4fbff')); cone(top + 3, 13, 22); return { w: 30, h: 4 }; }
+    case 't_gas_pendant': { p.vline(cx, top, top + 6, BRASS); p.ellipse(cx, top + 9, 5, 4, withAlpha(C('#fff0c0'), 220)); p.hline(cx - 5, cx + 5, top + 6, BRASS); cone(top + 10, 3, 18); return { w: 14, h: 14 }; }
+    case 't_industrial': { for (const dx of [-10, 0, 10]) { p.vline(cx + dx, top, top + 6, BLACK); p.poly([[cx + dx - 4, top + 11], [cx + dx + 4, top + 11], [cx + dx + 2, top + 6], [cx + dx - 2, top + 6]], C('#3a4a3a')); p.hline(cx + dx - 2, cx + dx + 2, top + 12, C('#fff0b8')); } cone(top + 12, 12, 26); return { w: 30, h: 13 }; }
+    case 't_laser': { blk(p, cx - 6, top, 12, 6, BLACK); for (const [dx, c] of [[-20, C('#ff2040')], [0, C('#40ff60')], [20, C('#4060ff')]] as [number, Col][]) p.line(cx, top + 6, cx + dx, top + 50, withAlpha(c, 150)); return { w: 16, h: 6 }; }
+    case 't_led_panel': { blk(p, cx - 12, top, 24, 2, WHITE); p.hline(cx - 11, cx + 11, top + 2, C('#ffffff')); cone(top + 2, 12, 24); return { w: 24, h: 3 }; }
+    case 't_rice_globe': { p.vline(cx, top, top + 4, BLACK); p.disc(cx, top + 11, 7, C('#f4ecd8')); for (let y = top + 6; y < top + 17; y += 3) p.hline(cx - 6, cx + 6, y, C('#d8ccb0')); cone(top + 12, 5, 20); return { w: 16, h: 18 }; }
+    case 't_smart_ceiling': { p.ellipse(cx, top + 2, 15, 2, WHITE); p.hline(cx - 14, cx + 14, top + 3, C('#ffd0a0')); cone(top + 3, 12, 26); return { w: 30, h: 4 }; }
+    case 't_sputnik': { p.vline(cx, top, top + 6, BRASS); p.disc(cx, top + 10, 2.5, BRASS); for (let i = 0; i < 8; i++) { const a = (i / 8) * Math.PI * 2, ex = cx + Math.cos(a) * 11, ey = top + 10 + Math.sin(a) * 7; p.line(cx, top + 10, ex, ey, BRASS); p.put(Math.round(ex), Math.round(ey), C('#fff8d0')); } cone(top + 10, 6, 24); return { w: 24, h: 20 }; }
+    case 't_stage_par': { p.hline(cx - 15, cx + 15, top + 1, BLACK); for (const [dx, c] of [[-11, C('#ff4040')], [-4, C('#40a0ff')], [4, C('#f0e040')], [11, C('#40e060')]] as [number, Col][]) { blk(p, cx + dx - 2, top + 2, 5, 6, BLACK); p.hline(cx + dx - 1, cx + dx + 1, top + 8, c); p.poly([[cx + dx - 1, top + 9], [cx + dx + 1, top + 9], [cx + dx + 8, top + 60], [cx + dx - 8, top + 60]], withAlpha(c, 26)); } return { w: 30, h: 9 }; }
+    case 't_track': { p.hline(cx - 17, cx + 17, top + 1, BLACK); for (const dx of [-12, -2, 8]) { p.line(cx + dx, top + 1, cx + dx + 2, top + 4, BLACK); blk(p, cx + dx + 1, top + 4, 4, 3, C('#2a2a30')); p.poly([[cx + dx + 2, top + 7], [cx + dx + 5, top + 7], [cx + dx + 14, top + 60], [cx + dx - 2, top + 60]], glow); } return { w: 34, h: 7 }; }
+    default: { p.vline(cx, top, top + 6, INK); p.poly([[cx - 6, top + 11], [cx + 6, top + 11], [cx + 3, top + 6], [cx - 3, top + 6]], C(STY31[d.style][1])); cone(top + 11, 5, 22); return { w: 14, h: 12 }; }
+  }
+}
+
+/** Letreiro de cada estilo com o texto dado (base embaixo à esquerda). */
+export function sign31(g: G, d: DecoDef31, x: number, b: number, text: string): WH {
+  const p = g.p, tw = textWidth(text);
+  const put = (tx: number, ty: number, c: Col) => drawText(p, text, tx, ty, c);
+  switch (d.id) {
+    case 's_painted': { const w = tw + 8; blk(p, x, b - 10, w, 10, C('#2e4a3a')); p.rect(x + 1, b - 9, w - 2, 1, C('#c8a040')); put(x + 4, b - 7, C('#f0e8c8')); return { w, h: 10 }; }
+    case 's_brass_plate': { const w = tw + 6; blk(p, x, b - 9, w, 9, BRASS); p.put(x + 1, b - 8, INK); p.put(x + w - 2, b - 8, INK); put(x + 3, b - 7, C('#3a2a10')); return { w, h: 9 }; }
+    case 's_gilt_letters': { put(x + 1, b - 7, C('#8a6a20')); put(x, b - 8, GOLD); return { w: tw + 2, h: 8 }; }
+    case 's_marquee': { const w = tw + 12; blk(p, x, b - 14, w, 14, C('#c83030')); p.rect(x + 3, b - 11, w - 6, 8, WHITE); put(x + 6, b - 9, INK); for (let i = 1; i < w - 1; i += 3) { p.put(x + i, b - 13, C('#fff0a0')); p.put(x + i, b - 2, C('#fff0a0')); } return { w, h: 14 }; }
+    case 's_neon_script': { const w = tw + 8; blk(p, x, b - 12, w, 12, C('#1a1420')); put(x + 4, b - 8, C('#ff70c0')); p.rect(x + 2, b - 3, w - 4, 1, withAlpha(C('#ff70c0'), 160)); return { w, h: 12 }; }
+    case 's_googie': { p.vline(x + 14, b - 28, b - 1, STEEL); for (let i = 0; i < 8; i++) { const a = (i / 8) * Math.PI * 2; p.line(x + 14, b - 24, x + 14 + Math.cos(a) * 7, b - 24 + Math.sin(a) * 7, C('#f0d040')); } p.poly([[x, b - 14], [x + tw + 8, b - 18], [x + tw + 10, b - 11], [x + 2, b - 8]], C('#3ab0a8')); put(x + 4, b - 15, WHITE); return { w: Math.max(28, tw + 10), h: 31 }; }
+    case 's_supergraphic': { const w = tw + 16; for (let i = 0; i < 4; i++) p.rect(x, b - 18 + i * 4, w, 4, [C('#e05a2a'), C('#f0a020'), C('#f0d040'), C('#8a5a2a')][i]); blk(p, x + 4, b - 13, tw + 8, 9, C('#1e1e24')); put(x + 8, b - 11, WHITE); return { w, h: 18 }; }
+    case 's_lightbox': { const w = tw + 10; blk(p, x, b - 12, w, 12, C('#9aa0a8')); p.rect(x + 2, b - 10, w - 4, 8, C('#f8f8f0')); put(x + 5, b - 8, C('#c83030')); return { w, h: 12 }; }
+    case 's_steel_letters': { put(x + 1, b - 7, C('#3a3a42')); put(x, b - 8, CHROME); p.hline(x, x + tw, b - 1, STEEL); return { w: tw + 2, h: 9 }; }
+    case 's_min_logo': { blk(p, x, b - 10, 12, 10, WHITE); p.disc(x + 6, b - 5, 3, C('#1e1e24')); p.disc(x + 6, b - 5, 1, WHITE); put(x + 14, b - 7, C('#1e1e24')); return { w: tw + 15, h: 10 }; }
+    case 's_led_screen': { const w = tw + 14; blk(p, x, b - 20, w, 20, C('#14161c')); for (let yy = b - 18; yy < b - 2; yy += 2) for (let xx = x + 2; xx < x + w - 2; xx += 2) p.put(xx, yy, C('#1e2a3a')); put(x + 7, b - 13, C('#40e0ff')); p.rect(x + 4, b - 6, w - 8, 1, C('#ff40c0')); return { w, h: 20 }; }
+    case 's_projection': { p.poly([[x, b], [x + 6, b], [x + tw + 10, b - 18], [x + tw + 2, b - 22]], withAlpha(C('#a0f0ff'), 50)); put(x + 4, b - 20, C('#a0f0ff')); blk(p, x, b - 3, 6, 3, C('#2a2a30')); return { w: tw + 10, h: 22 }; }
+    default: { const w = tw + 6; blk(p, x, b - 9, w, 9, C('#2a2026')); put(x + 3, b - 7, C('#ffe2a0')); return { w, h: 9 }; }
+  }
+}

diff --git a/src/ui/r31/decol31px.ts b/src/ui/r31/decol31px.ts
@@ -20,6 +20,7 @@ import { C, INK, Px, lv, mix, withAlpha, type Col } from '../pixel/px';
 import { cityView31, window31 } from '../pixel/window31';
 import { STY31, pieceArt31 } from '../pixel/decol31px';
 import { prim27 } from '../ps/hqpx27';
+import { art31, light31, sign31 } from './decol31art';
 import { SH31, SW31, tagPrice31, type Painted31, type Person31px } from './shop31px';
 import type { Spot31 } from './scene31model';
 
@@ -48,6 +49,8 @@ export function piece31(g: G, d: DecoDef31, x: number, base: number, k: number):
   const { w, h } = pieceSize31(d);
   const p = g.p, id = d.id, year = g.pl.year;
   const has = (re: RegExp) => re.test(id);
+  if (d.cat === 'light') return light31(g, d, x + (w >> 1), base - h);
+  if (d.cat !== 'hifi') { const own = art31(g, d, x, base); if (own) return own; }
   switch (d.cat) {
     case 'furniture':
       if (has(/sofa|couch|pit|futon|booth|chaise|lounge/) || (w > h * 1.4 && !has(/table|desk|cart|bed/))) { prim27.couch(g, x, base, Math.max(16, w), col(d)); return { w: Math.max(16, w), h: 14 }; }
@@ -56,11 +59,7 @@ export function piece31(g: G, d: DecoDef31, x: number, base: number, k: number):
       if (has(/desk|table|cart|vanity/)) { prim27.desk(g, x, base, Math.max(16, w)); return { w: Math.max(16, w), h: 12 }; }
       break;
     case 'plant': prim27.plant(g, x + (w >> 1), base, h > 20); return { w, h: h > 20 ? 22 : 12 };
-    case 'hifi':
-      if (has(/tv|telev|screen|flat|radio|console/)) { prim27.tv(g, x, base); return { w: 22, h: 24 }; }
-      if (has(/gramo|phono|record|turntable|juke|vitrola/)) { prim27.recordPlayer(g, x, base); return { w: 18, h: 27 }; }
-      if (has(/piano/)) { prim27.piano(g, x, base); return { w: 26, h: 26 }; }
-      break;
+    case 'hifi': { const r = hifi31(g, id, x, base); if (r) return r; break; }
     case 'art':
       if (has(/gold|platinum|disc|record/)) { prim27.goldDisc(g, x, base - 12, has(/platinum/)); return { w: 10, h: 12 }; }
       { // moldura (dourada antes de 1950, preta depois) + a pintura/pôster da época
@@ -76,12 +75,41 @@ export function piece31(g: G, d: DecoDef31, x: number, base: number, k: number):
       p.poly([[x + (w >> 1) - 5, base - hh + 6], [x + (w >> 1) + 5, base - hh + 6], [x + (w >> 1) + 3, base - hh], [x + (w >> 1) - 3, base - hh]], col(d, 1));
       return { w, h: hh };
     }
-    case 'sign': prim27.sign(g, x + (w >> 1), base - 9, year < 1950 ? 'ABERTO' : year < 1990 ? 'OPEN' : 'ON AIR', 70, true); return { w, h: 9 };
+    case 'sign': return sign31(g, d, x, base, year < 1950 ? 'ABERTO' : year < 1990 ? 'OPEN' : 'ON AIR');
     default: break;
   }
   pieceArt31(p, { ...d, w, h }, x, base, year, false);
   return { w, h };
 }
+/** Cada aparelho de som e imagem do catálogo com desenho próprio (base embaixo à esquerda). */
+function hifi31(g: G, id: string, x: number, b: number): { w: number; h: number } | null {
+  const p = g.p, wd = g.pal.wood, wk = g.pal.woodDark, blk = prim27.blk;
+  const knob = (cx: number, cy: number, c: Col = C('#e0b030')) => { p.put(cx, cy, c); p.put(cx + 1, cy, lv(c, 2)); };
+  const spk = (cx: number, cy: number, r: number) => { p.disc(cx, cy, r, C('#1a1a1e')); p.disc(cx, cy, Math.max(0.8, r * 0.45), C('#4a4a52')); };
+  switch (id.replace(/^h_/, '')) {
+    case 'gramophone': prim27.recordPlayer({ ...g, pl: { ...g.pl, gear: 'shellac' } }, x, b); return { w: 16, h: 27 };
+    case 'music_box': blk(p, x, b - 7, 12, 7, wd); p.rect(x + 1, b - 9, 10, 2, lv(wd, 4)); p.rect(x + 2, b - 6, 8, 3, C('#e8d8a8')); p.disc(x + 6, b - 5, 1.2, C('#c83a2a')); p.line(x + 12, b - 4, x + 14, b - 6, C('#c8a040')); return { w: 15, h: 9 };
+    case 'player_piano': prim27.piano(g, x, b); blk(p, x + 8, b - 21, 10, 3, C('#f0e8d0')); for (let i = 0; i < 5; i++) p.put(x + 9 + i * 2, b - 20, INK); return { w: 26, h: 26 };
+    case 'cathedral_radio': blk(p, x, b - 16, 14, 16, wd); p.ellipse(x + 7, b - 15, 7, 4, wd); p.rect(x + 3, b - 14, 8, 7, C('#e8d8a8')); for (let i = 0; i < 4; i++) p.vline(x + 4 + i * 2, b - 14, b - 8, lv(wd, 2)); knob(x + 3, b - 4); knob(x + 9, b - 4); return { w: 14, h: 20 };
+    case 'console_radio': blk(p, x, b - 22, 26, 22, wd); p.rect(x + 2, b - 20, 22, 2, lv(wd, 4)); p.rect(x + 3, b - 16, 9, 9, C('#d8c8a0')); for (let i = 0; i < 4; i++) p.vline(x + 4 + i * 2, b - 16, b - 8, lv(wd, 2)); p.rect(x + 15, b - 16, 8, 3, C('#f0e090')); knob(x + 16, b - 10); knob(x + 20, b - 10); p.rect(x + 2, b - 3, 2, 3, wk); p.rect(x + 22, b - 3, 2, 3, wk); return { w: 26, h: 22 };
+    case 'jukebox': prim27.recordPlayer({ ...g, pl: { ...g.pl, gear: 'reel' } }, x, b); return { w: 14, h: 26 };
+    case 'hifi_tube': blk(p, x, b - 9, 26, 9, wk); blk(p, x + 1, b - 12, 13, 3, C('#9a9aa2')); p.ellipse(x + 7, b - 13, 5, 1, INK); for (let i = 0; i < 3; i++) { p.rect(x + 17 + i * 3, b - 15, 2, 5, withAlpha(C('#ffb060'), 200)); p.put(x + 17 + i * 3, b - 15, C('#fff0c0')); } p.rect(x + 16, b - 10, 9, 1, C('#c8ccd4')); return { w: 26, h: 15 };
+    case 'tv_fifties': blk(p, x, b - 22, 22, 22, wd); p.rect(x + 3, b - 19, 12, 10, C('#3a4a48')); p.rect(x + 4, b - 18, 4, 3, C('#9ad0c0')); knob(x + 17, b - 17); knob(x + 17, b - 13); for (let i = 0; i < 3; i++) p.hline(x + 3, x + 18, b - 6 + i * 2, lv(wd, 2)); return { w: 22, h: 22 };
+    case 'reel_deck': blk(p, x, b - 20, 18, 20, C('#5a5e66')); for (const cy of [b - 15, b - 8]) { p.disc(x + 9, cy, 4, C('#b8bcc4')); p.disc(x + 9, cy, 1.2, INK); } p.line(x + 5, b - 15, x + 5, b - 8, C('#3a2a1e')); p.rect(x + 2, b - 3, 14, 2, C('#2a2a30')); return { w: 18, h: 20 };
+    case 'quad_stereo': for (const sx of [x, x + 30]) { blk(p, sx, b - 18, 8, 18, wd); spk(sx + 4, b - 13, 2.5); spk(sx + 4, b - 5, 2); } blk(p, x + 10, b - 8, 18, 8, C('#c8ccd4')); for (let i = 0; i < 4; i++) p.disc(x + 13 + i * 4, b - 4, 1, C('#2a2a30')); p.rect(x + 12, b - 7, 14, 1, C('#40e060')); return { w: 38, h: 18 };
+    case 'boombox': blk(p, x, b - 11, 24, 11, C('#3a3a42')); spk(x + 5, b - 5, 3.5); spk(x + 19, b - 5, 3.5); p.rect(x + 10, b - 9, 4, 4, C('#9aa0a8')); p.rect(x + 10, b - 4, 4, 2, C('#c83a2a')); p.line(x + 3, b - 11, x + 6, b - 15, C('#c8ccd4')); p.line(x + 6, b - 15, x + 18, b - 15, C('#c8ccd4')); p.line(x + 18, b - 15, x + 21, b - 11, C('#c8ccd4')); return { w: 24, h: 15 };
+    case 'vcr_tv': blk(p, x, b - 6, 20, 6, wk); blk(p, x + 2, b - 9, 16, 3, C('#2a2a30')); p.rect(x + 4, b - 8, 6, 1, C('#7af0a0')); blk(p, x + 1, b - 24, 18, 15, C('#2a2a30')); p.rect(x + 3, b - 22, 12, 10, C('#3a7ab8')); p.rect(x + 4, b - 21, 4, 2, C('#9ad0f0')); return { w: 20, h: 24 };
+    case 'cd_micro': for (const sx of [x, x + 18]) { blk(p, sx, b - 12, 7, 12, C('#2a2a30')); spk(sx + 3.5, b - 7, 2.5); } blk(p, x + 8, b - 10, 9, 10, C('#9aa0a8')); p.rect(x + 9, b - 9, 7, 2, C('#40c0f0')); p.ellipse(x + 12, b - 4, 3, 1, C('#d8dce4')); return { w: 25, h: 12 };
+    case 'pa_speaker': blk(p, x, b - 36, 16, 18, C('#1e1e22')); blk(p, x, b - 18, 16, 18, C('#1e1e22')); spk(x + 8, b - 28, 5); spk(x + 8, b - 10, 5); p.rect(x + 3, b - 34, 10, 2, C('#5a5e66')); return { w: 16, h: 36 };
+    case 'flat_tv': prim27.tv({ ...g, pl: { ...g.pl, year: Math.max(2006, g.pl.year) } }, x + 2, b); return { w: 26, h: 24 };
+    case 'smart_speaker': p.rect(x + 2, b - 10, 6, 10, C('#3a3a42')); p.ellipse(x + 5, b - 10, 3, 1, C('#4a4a54')); p.hline(x + 3, x + 7, b - 10, C('#40c0ff')); for (let i = 0; i < 4; i++) p.hline(x + 2, x + 7, b - 8 + i * 2, C('#2a2a30')); p.ellipse(x + 5, b - 13, 4, 1.5, withAlpha(C('#40c0ff'), 90)); return { w: 10, h: 13 };
+    case 'vinyl_revival': blk(p, x, b - 6, 20, 6, wd); blk(p, x + 1, b - 8, 18, 2, C('#e8e6e0')); p.ellipse(x + 8, b - 9, 6, 1.4, INK); p.put(x + 8, b - 9, C('#c83a2a')); p.line(x + 16, b - 9, x + 13, b - 10, C('#c8ccd4')); p.put(x + 18, b - 4, C('#40a0ff')); return { w: 20, h: 10 };
+    case 'holo': blk(p, x + 2, b - 4, 14, 4, C('#2a2a30')); p.ellipse(x + 9, b - 5, 6, 1.5, C('#60e0ff')); p.poly([[x + 4, b - 5], [x + 14, b - 5], [x + 12, b - 24], [x + 6, b - 24]], withAlpha(C('#80f0ff'), 60)); p.disc(x + 9, b - 20, 2, withAlpha(C('#a0ffff'), 170)); p.rect(x + 8, b - 18, 3, 6, withAlpha(C('#a0ffff'), 150)); return { w: 18, h: 24 };
+    case 'karaoke': blk(p, x, b - 14, 16, 14, C('#4a2a6a')); p.rect(x + 2, b - 12, 12, 6, C('#2a2a40')); p.hline(x + 3, x + 12, b - 10, C('#ff60c0')); p.hline(x + 3, x + 9, b - 8, C('#60e0ff')); spk(x + 5, b - 3, 1.5); spk(x + 11, b - 3, 1.5); p.line(x + 17, b - 1, x + 19, b - 12, C('#2a2a30')); p.rect(x + 18, b - 15, 3, 4, C('#9aa0a8')); return { w: 22, h: 15 };
+    default: return null;
+  }
+}
+
 /** Papel de parede (estampa da época por cima da parede do corte), piso/tapete e luz de teto. */
 function surfaces(c: Cut27, items: { d: DecoDef31; slot: string }[]): void {
   const { back, layer, x0, w0, y0, fy } = c;
@@ -96,7 +124,7 @@ function surfaces(c: Cut27, items: { d: DecoDef31; slot: string }[]): void {
   }
   const ground = items.find((i) => i.slot === 'ground');
   if (ground) { const a = col(ground.d), b = col(ground.d, 1); back.rect(x0 + 30, fy - 1, w0 - 60, 3, b); back.rect(x0 + 34, fy, w0 - 68, 1, a); }
-  for (const it of items.filter((i) => i.slot === 'ceiling')) { const cx = x0 + Math.round(w0 / 2); layer.vline(cx, y0, y0 + 6, INK); layer.poly([[cx - 6, y0 + 11], [cx + 6, y0 + 11], [cx + 3, y0 + 6], [cx - 3, y0 + 6]], col(it.d, 1)); layer.hline(cx - 4, cx + 4, y0 + 12, C('#fff0b8')); layer.poly([[cx - 5, y0 + 12], [cx + 5, y0 + 12], [cx + 22, fy], [cx - 22, fy]], withAlpha(C('#ffe8a0'), 22)); }
+  for (const it of items.filter((i) => i.slot === 'ceiling')) light31({ ...c.g, p: layer }, it.d, x0 + Math.round(w0 / 2), y0);
 }
 
 // ---------------------------------------------------------------- loja
@@ -176,7 +204,7 @@ export function paintDecoShop31(a: DecoShopArt31): Painted31 {
     if (d.cat === 'paper' || d.cat === 'window') { // amostra: rolo/cortina pendurado
       const a2 = col(d), b2 = col(d, 1);
       prim27.blk(p, wx, top, 14, 22, a2); for (let yy = top + 3; yy < top + 20; yy += 4) p.hline(wx + 2, wx + 11, yy, b2); size = { w: 14, h: 22 };
-    } else if (d.cat === 'light') { p.vline(wx + 7, y0, top + 4, INK); p.poly([[wx + 1, top + 12], [wx + 13, top + 12], [wx + 10, top + 5], [wx + 4, top + 5]], col(d, 1)); size = { w: 14, h: 12 }; }
+    } else if (d.cat === 'light') size = light31({ ...g, p }, d, wx + 10, y0);
     else size = piece31({ ...g, p }, d, wx, top + Math.min(30, sz.h), hk(it.def.id));
     if (a.k === 'gallery') back.poly([[wx + (size.w >> 1) - 2, y0 + 5], [wx + (size.w >> 1) + 2, y0 + 5], [wx + size.w + 2, top + size.h + 4], [wx - 2, top + size.h + 4]], withAlpha(C('#fff4c8'), 30));
     const tb = label(it, wx, top + Math.min(30, Math.max(size.h, 12)) + 3, 2);
@@ -298,7 +326,7 @@ export function paintEst31(a: EstArt31): Painted31 {
   }
   const sg = a.items.find((i) => i.slot === 'sign');
   const px = cutEnd27(c, { name: a.name, dim: a.room.id === 'stage', facade: facadeCol27(a.year, 'instruments') });
-  if (sg) { const t = a.room.id === 'bar' ? 'BAR' : a.room.id === 'stage' ? (a.year < 1950 ? 'BAILE' : 'AO VIVO') : a.room.id === 'shop' ? 'DISCOS' : 'ABERTO'; const w = textWidth(t) + 8, sx = X(0.5) - (w >> 1), sy = y0 + 4; prim27.blk(px, sx, sy, w, 9, C('#1a1420')); drawText(px, t, sx + 4, sy + 2, mix(col(sg.d, 1), C('#ffffff'), 0.4)); }
+  if (sg) { const t = a.room.id === 'bar' ? 'BAR' : a.room.id === 'stage' ? (a.year < 1950 ? 'BAILE' : 'AO VIVO') : a.room.id === 'shop' ? 'DISCOS' : 'ABERTO'; const q = new Px(SW31, SH31); const sz = sign31({ ...g, p: q }, sg.d, 0, 40, t); q.outline(INK); px.blit(q, X(0.5) - (sz.w >> 1), y0 + 14 - 40 + sz.h - 10); }
   const people: Person31px[] = [{ id: 'you', x: X(0.12), y: fy, dir: 'SE' }];
   if (hasDesk) people.push({ id: 'clerk', x: kx + (kw >> 1), y: fy, dir: 'SW', behind: true });
   if (a.pub) people.push({ id: 'cust1', x: X(0.3), y: fy, dir: 'SE' }, { id: 'cust2', x: X(0.78), y: fy, dir: 'SW' }, { id: 'cust3', x: X(0.9), y: fy, dir: 'SW' });

diff --git a/src/ui/r31/decoshop31ui.ts b/src/ui/r31/decoshop31ui.ts
@@ -31,6 +31,8 @@ import type { Painted31 } from './shop31px';
 export const DECO_AREA31 = 'deco31';
 type Tab = DecoShopK31 | 'mail' | 'net' | 'places';
 const UI: { tab: Tab; place: string; room: string; more: boolean } = { tab: 'furniture', place: '', room: '', more: false };
+/** Estado da tela (escolha de aba/lugar; só interface). */
+export const DECO_UI31 = UI;
 /** Abre a tela numa loja (botão do prédio no mapa, calendário, caixa de entrada). */
 export function openDecoShop31(tab: Tab): void { UI.tab = tab; goDest31({ area: DECO_AREA31 }); }
 
